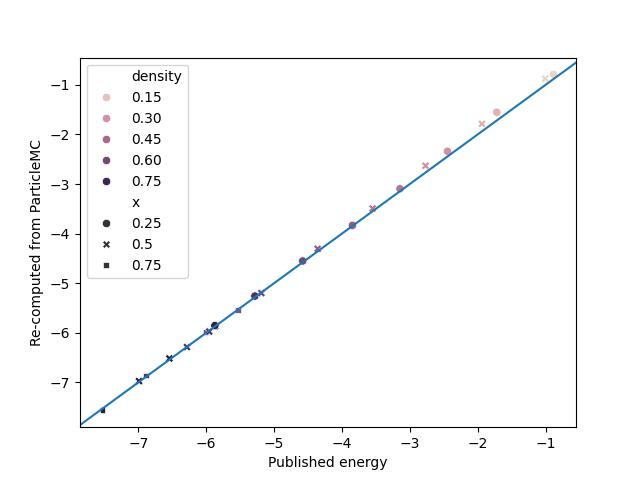
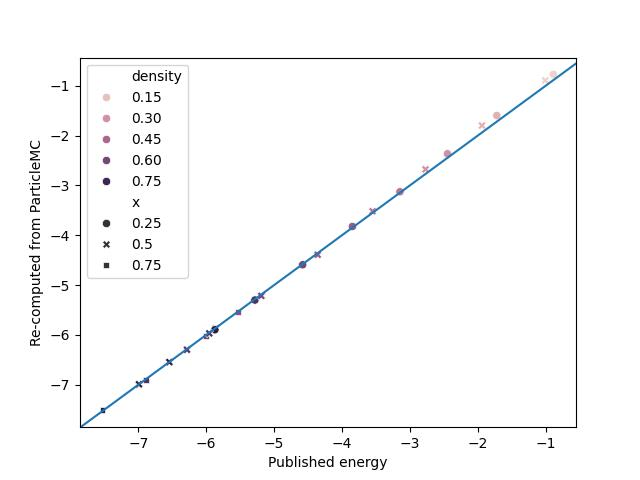
feat: enable discrete swaps (#58)
* feat: implement discrete-swap

* feat: update validation to include discrete swaps

* docs: update main README to document discrete swaps

* docs: typos

diff --git a/validation/lj-mixture/run-validation.py b/validation/lj-mixture/run-validation.py
@@ -104,9 +104,15 @@ def create_params(parameters: dict, path_to_params: str) -> None:
 
         [[simulation.move]]
         action = "Displacement"
-        probability = 1.0
+        probability = 0.9
         policy = "SimpleGaussian"
         parameters = {{sigma = 0.05}}
+
+        [[simulation.move]]
+        action = "DiscreteSwap"
+        probability = 0.1
+        policy = "DoubleUniform"
+        parameters = {{species = [1, 2]}}
 
         [[simulation.output]]
         algorithm = "StoreCallbacks"
@@ -168,9 +174,11 @@ def run_simulations(output_path: str) -> None:
         # Remove the first half as equilibration, just to be sure
         energies = energies[int(len(energies) / 2) :]
 
-        acceptance_rate = np.array(
-            pd.read_csv(f"{workdir}/acceptance.dat", sep="\\s+", names=["i", "a"])["a"]
-        )[-1]
+        df_acceptance_rates = pd.read_csv(
+            f"{workdir}/acceptance.dat", sep="\\s+", names=["i", "move", "swap"]
+        )
+        displacement_acceptance = float(df_acceptance_rates["move"].iloc[-1][1:-2])
+        swap_acceptance = float(df_acceptance_rates["swap"].iloc[-1][:-1])
 
         # Compute long-range corrections from the cutoff
         # Formula from Gromacs https://manual.gromacs.org/current/reference-manual/functions/long-range-vdw.html
@@ -195,7 +203,8 @@ def run_simulations(output_path: str) -> None:
                 "energy": np.mean(energies),
                 "energy_err": np.std(energies) / np.sqrt(len(energies)),
                 "lr_correction": lr_correction,
-                "acceptance_rate": json.loads(acceptance_rate)[0],
+                "acceptance_rate_displacement": displacement_acceptance,
+                "acceptance_rate_swap": swap_acceptance,
             }
         )
 

diff --git a/README.md b/README.md
@@ -93,7 +93,7 @@ rcut = 2.5
 
 [simulation]
 type = "Metropolis"
-steps = 500   
+steps = 500
 seed = 10
 parallel = false
 output_path = "./"
@@ -120,7 +120,21 @@ This example defines a minimal Monte Carlo simulation setup:
 - The `[[simulation.move]]` section describes the Monte Carlo move to use: a displacement move with probability 1.0, guided by a simple Gaussian policy with a standard deviation (`sigma`) of 0.05.
 - The `[[simulation.output]]` section configures the output: trajectories will be stored every 50 steps in the XYZ format.
 
-By executing `particlesmc params.toml` you will run a basic Metropolis Monte Carlo simulation of particles interacting via the Lennard-Jones potential, using displacement moves, and periodically saving the system's trajectory.
+By executing `particlesmc params.toml** you will run a basic Metropolis Monte Carlo simulation of particles interacting via the Lennard-Jones potential, using displacement moves, and periodically saving the system's trajectory.
+
+**Extending beyond this simple example:**
+
+More models and moves are available.
+
+For instance, in a simulation that contains multiple species, __DiscreteSwap__ moves can be added to swap species between to random particles:
+```toml
+[[simulation.move]]
+action = "DiscreteSwap"
+probability = 0.1
+policy = "DoubleUniform"
+parameters = {species = [1, 2]}
+```
+is a move that will be attempted 10% of the time (probability = 0.1). It will select a random particle _i_ of species _1_, a random particle _j_ of species _2_, and will attempt to transform _i_ into species _2_, and _j_ into species _1_.
 
 ## Contributing
 

diff --git a/validation/lj-mixture/README.md b/validation/lj-mixture/README.md
@@ -1,14 +1,14 @@
 # Binary mixture of LJ particles
 
-This directory contains scripts to run a simple simulation of a binary mixture of Lennard-Jones particles, in 3D.
+This directory contains scripts to run a simple simulation of a binary mixture of Lennard-Jones particles, in 3D. Swap Monte Carlo moves are attempted on top of normal displacements.
 
 The average energy is recorded, for different conditions (temperature, density, ratio between the two species), and compared to published results.
 
-Reproducing the published results validates the implementation of the MC scheme, the LJ potential, and interaction counting.
+Reproducing the published results validates the implementation of the MC scheme, the LJ potential, the discrete swap algorithm, and energy evaluation.
 
 ## How to run
 
-The `particlemc` exectuable should be in the PATH env variable, otherwise a specific path can
+The `particlemc` executable should be in the PATH env variable, otherwise a specific path can
 be specified at the top of the run-validation.py script.
 
 The `run-validation.py` script is meant to be run with [uv](https://docs.astral.sh/uv/), with the following command:
